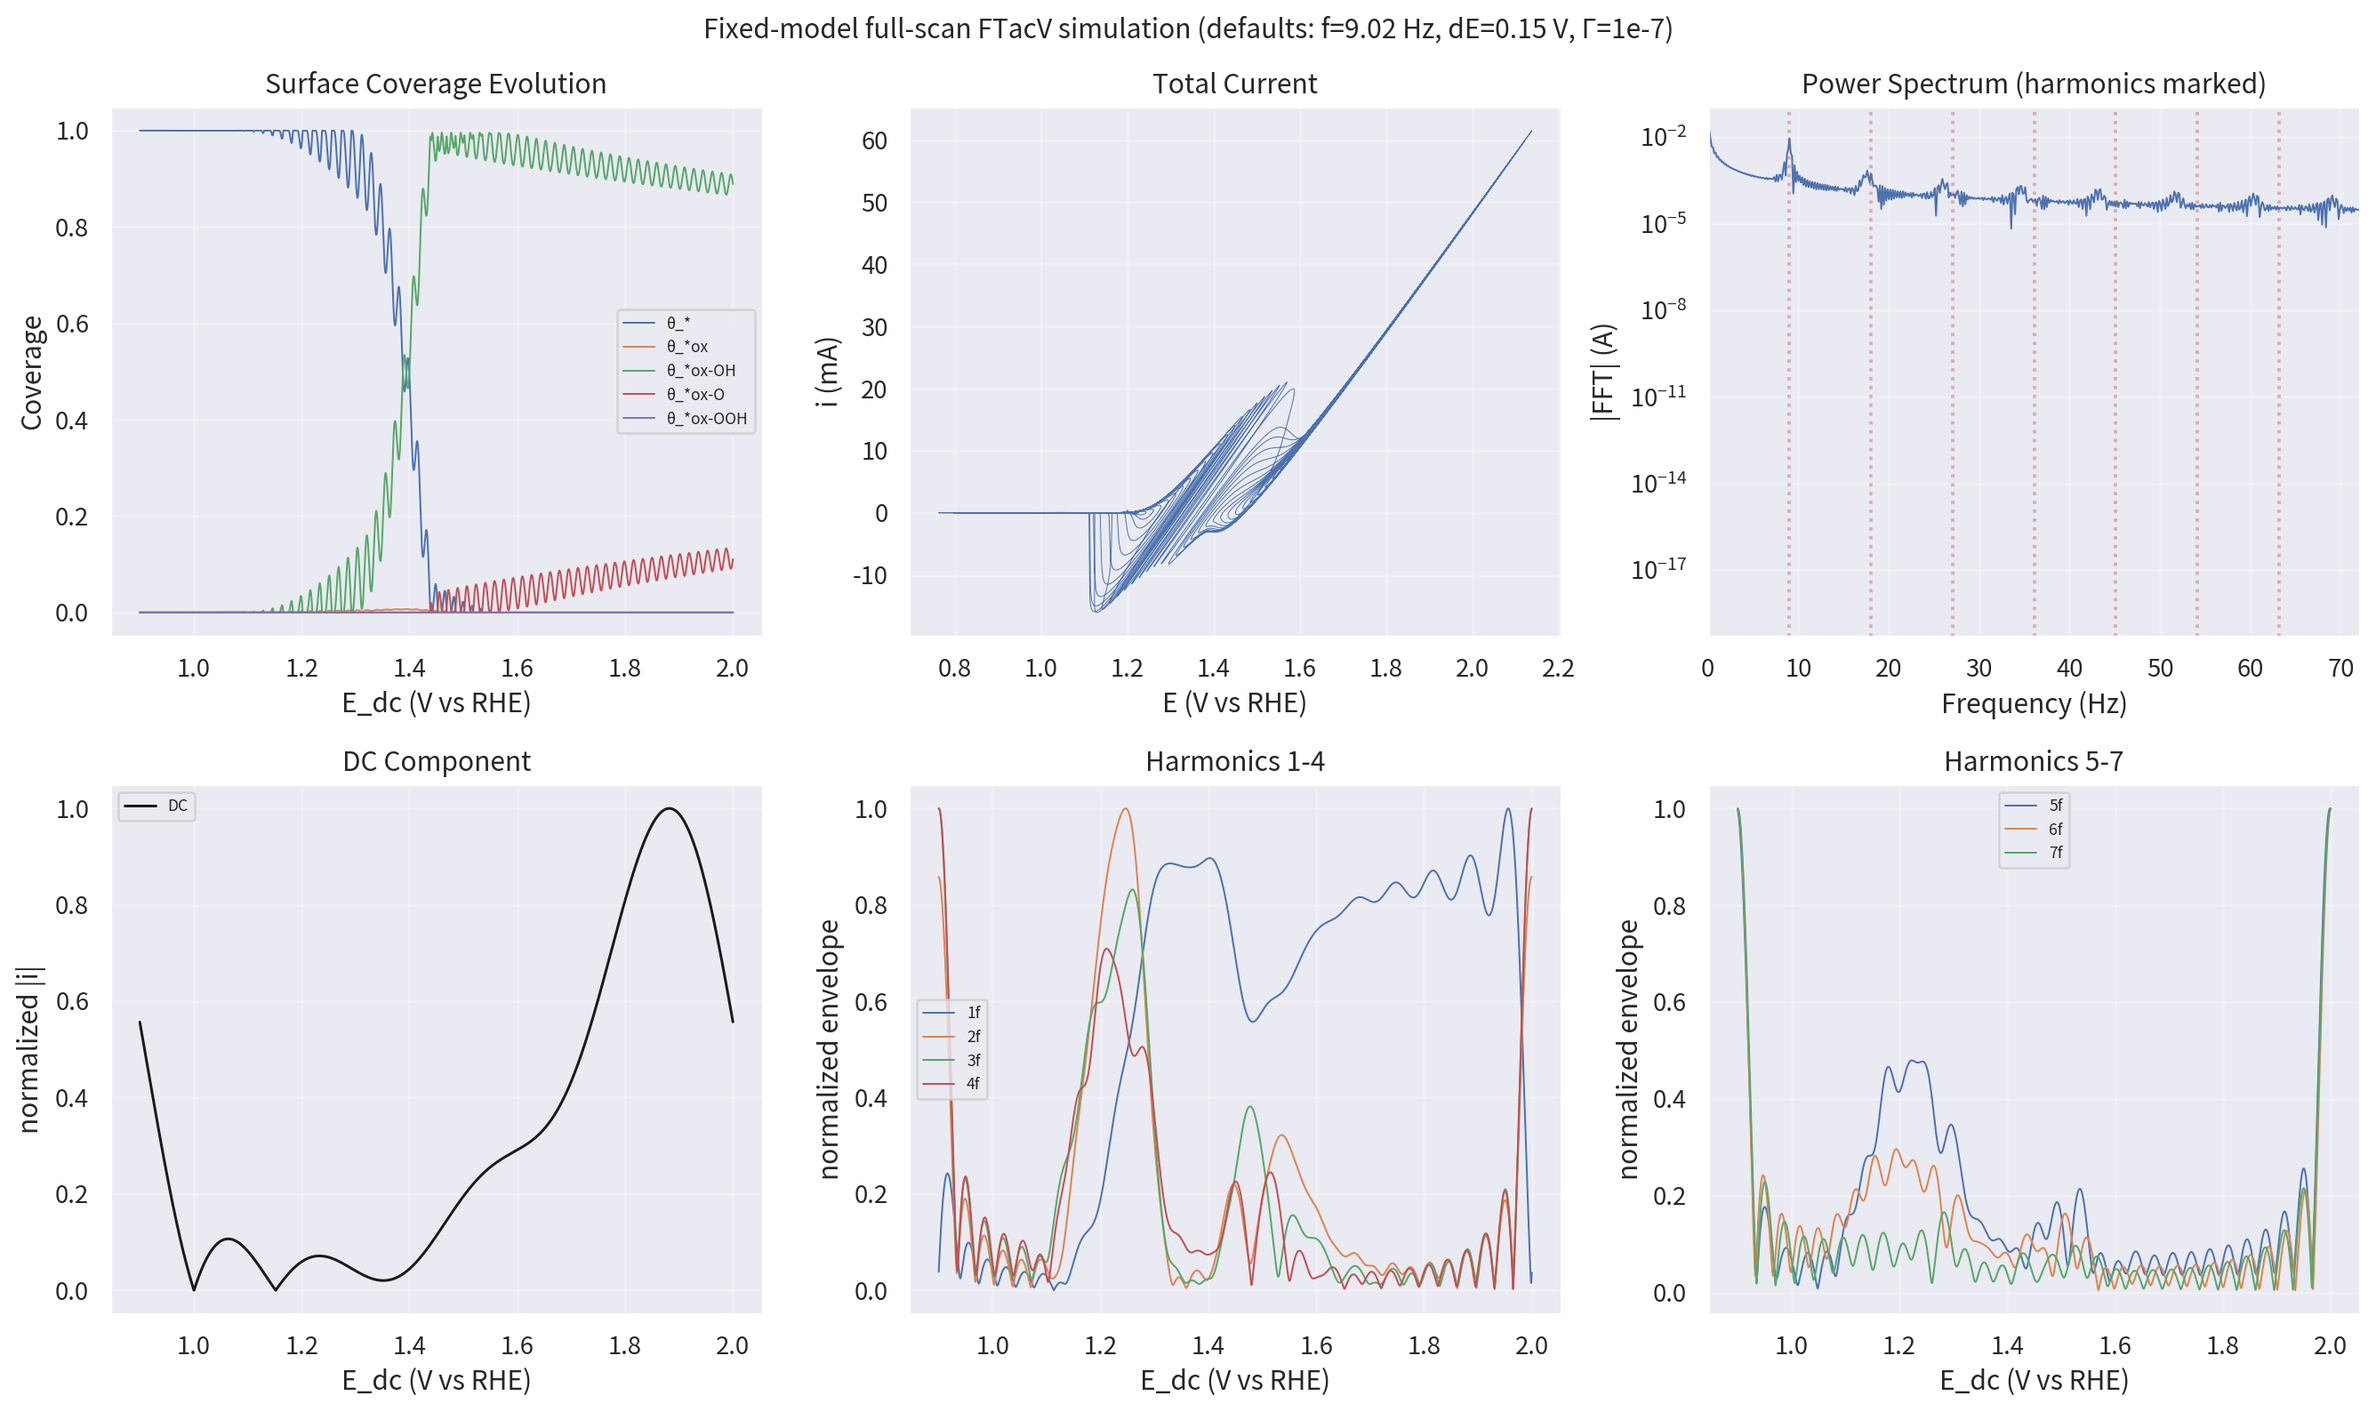
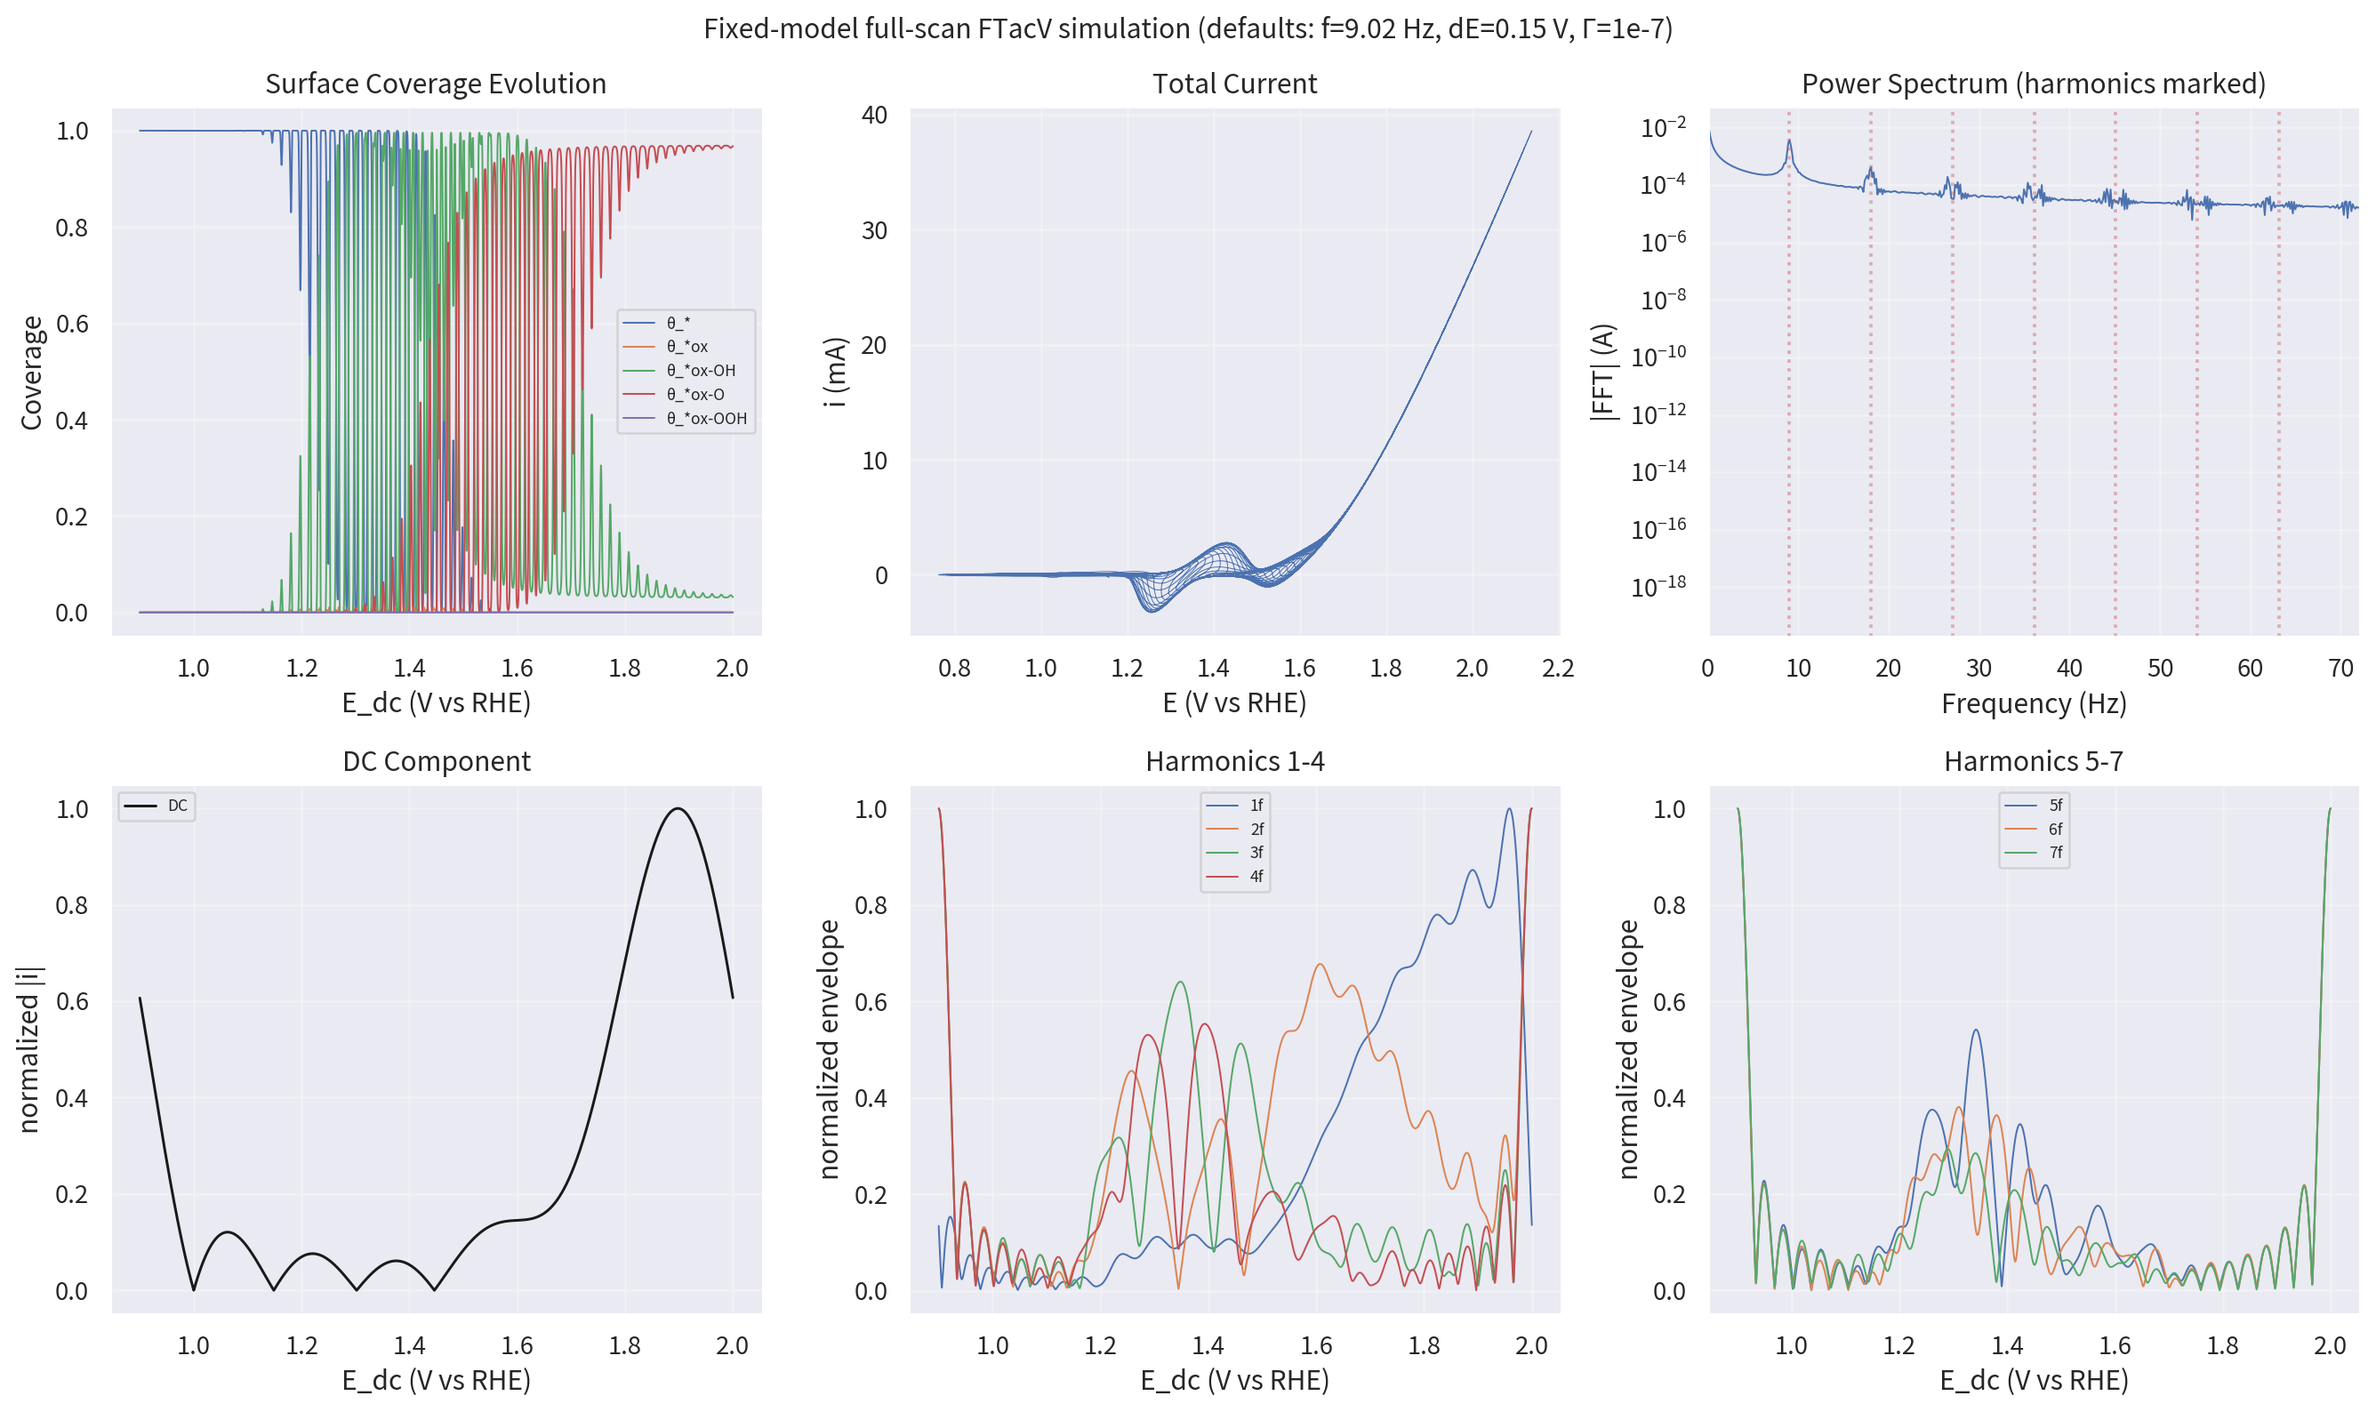
params: 默认参数文献化修正 + 统一 core/web 默认值
- Γ 1e-7→1e-9 mol/cm²（单分子层量级，消除刚性与虚高电流）
- Cdl 1e-6→60 µF/cm²（双电层典型区间）
- k0_1/2/4 1e5→1e3/5e2/1e3, k0_3 500→50 s⁻¹：移入 FTacV
  敏感窗口（~2πf≈57 s⁻¹），高次谐波恢复步骤区分度
- defaults.py 增加各参数文献出处注释（Man 2011 标度、
  碱性 Co3+/4+ 1.43–1.5 V、Bonke k0cat 量级）
- web 后端 SimParams 与 core defaults 统一
- 补充 docs/papers：Man 2011(DTU 开放版)/Bergmann 2015/
  Snitkoff-Sol 2024 正文+SI

diff --git a/web/backend/main.py b/web/backend/main.py
@@ -1,140 +1,159 @@
 """碱性 OER AEM FTacV 参数反演平台 — FastAPI 后端"""
 
-import sys, os
+import sys, os, time
 sys.path.insert(0, os.path.join(os.path.dirname(__file__), '..', '..', 'python'))
 
 import numpy as np
-from fastapi import FastAPI, HTTPException
+from fastapi import FastAPI
 from fastapi.middleware.cors import CORSMiddleware
-from fastapi.responses import JSONResponse
+from fastapi.staticfiles import StaticFiles
 from pydantic import BaseModel
-from typing import Optional, List
+from typing import Optional, List, Dict, Any
 
-from oer_aem import OERPhysics, OERSignal, OERObjective, initialize_oer_parameters
+from oer_aem import OERPhysics, OERSignal, initialize_oer_parameters
 
-app = FastAPI(title="OER-FTAcV API", version="0.1.0")
+app = FastAPI(title="OER-FTAcV API", version="0.2.0")
+app.add_middleware(CORSMiddleware, allow_origins=["*"], allow_methods=["*"], allow_headers=["*"])
 
-app.add_middleware(
-    CORSMiddleware,
-    allow_origins=["*"],
-    allow_methods=["*"],
-    allow_headers=["*"],
-)
+# 托管前端静态文件
+frontend_dir = os.path.join(os.path.dirname(__file__), '..', 'frontend')
+app.mount("/static", StaticFiles(directory=frontend_dir), name="static")
 
 # ===== 数据模型 =====
-
 class SimParams(BaseModel):
-    """仿真参数（前端传入的子集，其余使用默认值）"""
-    G_OH: float = 1.55
-    G_O: float = 3.10
+    # 与 python/oer_aem/defaults.py 保持一致（2026-07-18 统一）
+    G_OH: float = 1.23
+    G_O: float = 2.80
     scaling_OOH_OH: float = 3.2
-    E0_pre: float = 1.50
-    k0_pre: float = 100.0
-    k0_1: float = 1e4
-    k0_2: float = 1e4
-    k0_3: float = 10.0
+    E0_pre: float = 1.45
+    k0_pre: float = 500.0
+    k0_1: float = 1e3
+    k0_2: float = 5e2
+    k0_3: float = 50.0
     k0_4: float = 1e3
     E_start: float = 0.9
-    E_end: float = 1.8
+    E_end: float = 2.0
     f: float = 9.02
-    dE: float = 0.08
-    Ru: float = 75.0
+    dE: float = 0.15
+    Ru: float = 10.0
     Cdl: float = 60e-6
     A: float = 0.196
     gamma: float = 1e-9
-    n_points: int = 2048
+    n_points: int = 16384
     objective_mode: str = "ftacv"
 
-class SimResult(BaseModel):
-    success: bool
-    E_actual: Optional[List[float]] = None
-    i_total: Optional[List[float]] = None
-    coverage_star: Optional[List[float]] = None
-    coverage_ox: Optional[List[float]] = None
-    coverage_OH: Optional[List[float]] = None
-    coverage_O: Optional[List[float]] = None
-    coverage_OOH: Optional[List[float]] = None
-    eta_theoretical: Optional[float] = None
-    E01: Optional[float] = None
-    E02: Optional[float] = None
-    E03: Optional[float] = None
-    E04: Optional[float] = None
-    time_elapsed: Optional[float] = None
-    error: Optional[str] = None
+
+def _to_list(arr):
+    if isinstance(arr, np.ndarray): return arr.tolist()
+    return list(arr) if arr is not None else None
+
+
+def _serialize(val):
+    if isinstance(val, (np.integer,)): return int(val)
+    if isinstance(val, (np.floating,)): return float(val)
+    if isinstance(val, np.ndarray): return val.tolist()
+    if isinstance(val, (list, tuple)): return [_serialize(v) for v in val]
+    return val
 
 
 # ===== API 路由 =====
 
 @app.get("/api/params/defaults")
 async def get_default_params():
-    """返回默认参数（完整字典）。"""
     params = initialize_oer_parameters()
-    # 只返回前端需要的可序列化字段
     keys = ['G_OH', 'G_O', 'scaling_OOH_OH', 'E0_pre',
             'k0_pre', 'k0_1', 'k0_2', 'k0_3', 'k0_4',
             'E01', 'E02', 'E03', 'E04',
             'E_start', 'E_end', 'f', 'dE',
             'Ru', 'Cdl', 'A', 'gamma',
-            'n_points', 'points_per_cycle', 'T',
-            'a', 'objective_mode']
+            'n_points', 'points_per_cycle', 'T', 'a', 'objective_mode',
+            'use_steady_state', 'use_fft']
     return {k: _serialize(params.get(k)) for k in keys}
 
 
-@app.post("/api/simulate", response_model=SimResult)
-async def simulate(p: SimParams):
-    """运行单次 ODE 仿真，返回电流 + 覆盖度 + 平衡电位。"""
-    import time
+@app.post("/api/simulate")
+async def simulate(p: SimParams) -> Dict[str, Any]:
+    """运行 ODE 仿真 + 谐波提取，返回全部可视化数据。"""
     try:
         params = initialize_oer_parameters()
-        # 覆盖前端传入的参数
         for field, value in p.model_dump().items():
-            if field in ('objective_mode',):
+            if field == 'objective_mode':
                 params[field] = str(value)
             else:
                 params[field] = value
 
-        params['n_points'] = min(params['n_points'], 8192)
-        params['points_per_cycle'] = 32
+        params['n_points'] = min(params['n_points'], 16384)
         params['total_time'] = (params['n_points'] / params['points_per_cycle']) / params['f']
         params['t_span'] = np.linspace(0, params['total_time'], params['n_points'])
 
         t0 = time.perf_counter()
-        t, y, E_actual, i_total = OERPhysics.solve_ode_system(params)
+        t, y, E_actual_raw, i_total_raw = OERPhysics.solve_ode_system(params)
         elapsed = time.perf_counter() - t0
 
-        return SimResult(
-            success=True,
-            E_actual=E_actual.tolist(),
-            i_total=i_total.tolist(),
-            coverage_star=y[:, 0].tolist(),
-            coverage_ox=y[:, 1].tolist(),
-            coverage_OH=y[:, 2].tolist(),
-            coverage_O=y[:, 3].tolist(),
-            coverage_OOH=y[:, 4].tolist(),
-            eta_theoretical=max(params['E01'], params['E02'], params['E03'], params['E04']) - 1.23,
-            E01=params['E01'], E02=params['E02'], E03=params['E03'], E04=params['E04'],
-            time_elapsed=elapsed,
-        )
-    except Exception as e:
-        return SimResult(success=False, error=str(e))
+        # ---- 谐波提取 ----
+        df = OERSignal.safe_df(t)
+        i_total = np.asarray(i_total_raw).reshape(-1)
+        tdc = params['E_start'] + t * params['v']
 
+        # DC 分量（低通滤波 → 包络）
+        if params.get('lp_filter_sos') is not None:
+            from scipy.signal import filtfilt
+            I_dc = np.abs(filtfilt(params['lp_filter_sos'], i_total))
+        else:
+            I_dc = np.abs(i_total)
+
+        # 1-7 次谐波
+        I_harm = OERSignal.extract_harmonics(i_total, df, params)
+
+        # 功率谱
+        L = len(i_total)
+        Y = np.fft.fft(i_total)
+        P2 = np.abs(Y / L)
+        P1 = P2[:L // 2 + 1]
+        P1[1:-1] = 2 * P1[1:-1]
+        f_axis = df * np.arange(L // 2 + 1) / L
+
+        # 截取到 15*f 以内
+        f_max = 15 * params['f']
+        idx = f_axis <= f_max
+
+        return {
+            'success': True,
+            # 总电流曲线
+            'E_actual': _to_list(E_actual_raw),
+            'i_total': _to_list(i_total),
+            'tdc': _to_list(tdc),
+            # 覆盖度
+            'coverage_star': _to_list(y[:, 0]),
+            'coverage_ox':   _to_list(y[:, 1]),
+            'coverage_OH':   _to_list(y[:, 2]),
+            'coverage_O':    _to_list(y[:, 3]),
+            'coverage_OOH':  _to_list(y[:, 4]),
+            # 功率谱
+            'ps_freq': _to_list(f_axis[idx]),
+            'ps_mag':  _to_list(P1[idx]),
+            # DC + 谐波（归一化到各自最大值）
+            'dc':   _to_list(I_dc / max(np.max(I_dc), 1e-30)),
+            'harmonics': [_to_list(I_harm[:, k] / max(np.max(np.abs(I_harm[:, k])), 1e-30)) for k in range(7)],
+            # 参数摘要
+            'E01': params['E01'], 'E02': params['E02'],
+            'E03': params['E03'], 'E04': params['E04'],
+            'eta_theoretical': max(params['E01'], params['E02'], params['E03'], params['E04']) - 1.23,
+            'time_elapsed': elapsed,
+        }
+    except Exception as e:
+        return {'success': False, 'error': str(e)}
+
+
+from fastapi.responses import FileResponse
+
+@app.get("/")
+async def root():
+    return FileResponse(os.path.join(frontend_dir, "index.html"))
 
 @app.get("/api/health")
 async def health():
     return {"status": "ok"}
-
-
-def _serialize(val):
-    """将 numpy 类型转为 Python 原生类型。"""
-    if isinstance(val, (np.integer,)):
-        return int(val)
-    if isinstance(val, (np.floating,)):
-        return float(val)
-    if isinstance(val, np.ndarray):
-        return val.tolist()
-    if isinstance(val, (list, tuple)):
-        return [_serialize(v) for v in val]
-    return val
 
 
 if __name__ == '__main__':

diff --git a/python/oer_aem/defaults.py b/python/oer_aem/defaults.py
@@ -23,35 +23,42 @@ def initialize_oer_parameters() -> dict:
     params['result_root'] = ""
 
     # ==================== AEM 热力学参数（物理描述符） ====================
-    params['G_OH'] = 1.55             # *OH 吸附自由能 (eV)
-    params['G_O'] = 3.10              # *O 吸附自由能 (eV)
-    params['scaling_OOH_OH'] = 3.2    # *OOH/*OH 标度偏移（可调）
+    # 依据：Man et al. 2011 ChemCatChem 3, 1159（标度关系 + Co3O4 火山图位置）
+    # ΔG_O−ΔG_OH = 1.57 eV ≈ Co3O4 在该文中的描述符值（最优 1.6），η_理论 ≈ 0.40 V
+    # G_OH 绝对值泛函敏感（DFT+U 会移动吸附腿），作为拟合描述符使用
+    params['G_OH'] = 1.23             # *OH 吸附自由能 (eV, 调低以降低过电位)
+    params['G_O'] = 2.80              # *O 吸附自由能 (eV)
+    params['scaling_OOH_OH'] = 3.2    # *OOH/*OH 标度偏移 (Man 2011: 3.20±0.2 eV)
 
     # ==================== 预氧化参数 ====================
-    params['E0_pre'] = 1.50           # Co³⁺/⁴⁺ 氧化电位 (V vs RHE)
-    params['k0_pre'] = 100.0          # 预氧化速率 (s⁻¹)
+    # 依据：1 M KOH 中 Co3+/4+ 氧化峰 1.43–1.5 V vs RHE（碱性 CoOx 文献一致区间）
+    # 注意：Bonke 2016 的 E0cat=1.9–2.1 V 是 pH 9.2 硼酸体系，不可移植
+    params['E0_pre'] = 1.45           # Co³⁺/⁴⁺ 氧化电位 (V vs RHE)
+    params['k0_pre'] = 500.0          # 预氧化速率 (s⁻¹, Bonke k0cat=90–325 同量级，待标定)
 
     # ==================== AEM 动力学参数 ====================
-    params['k0_1'] = 1e4    # *ox → *ox-OH
-    params['k0_2'] = 1e4    # *ox-OH → *ox-O
-    params['k0_3'] = 10.0   # *ox-O → *ox-OOH (O–O 键形成，较慢)
+    # BV 标准速率常数无文献表值，属反演目标量
+    # 默认值置于 FTacV 敏感窗口（k0 ~ 2πf ≈ 57 s⁻¹）附近，保证谐波对各步有区分度
+    params['k0_1'] = 1e3    # *ox → *ox-OH
+    params['k0_2'] = 5e2    # *ox-OH → *ox-O
+    params['k0_3'] = 50.0   # *ox-O → *ox-OOH (PDS, 最慢)
     params['k0_4'] = 1e3    # *ox-OOH → *ox + O₂
 
     # ==================== 电极与电解液参数 ====================
     params['electrode_type'] = 'Planar'
-    params['A'] = 0.196              # 电极面积 (cm²)
-    params['Ru'] = 75.0              # 未补偿电阻 (Ω)
-    params['Cdl'] = 60e-6            # 双电层电容 (F/cm²)
-    params['gamma'] = 1e-9           # 活性位点总浓度 (mol/cm²)
+    params['A'] = 0.196              # 电极面积 (cm², 5 mm 圆盘；微纳电极需改)
+    params['Ru'] = 10.0              # 未补偿电阻 (Ω, 需 EIS 实测)
+    params['Cdl'] = 60e-6            # 双电层电容 (F/cm², 典型 20–60 µF/cm²)
+    params['gamma'] = 1e-9           # 活性位点总浓度 (mol/cm², 单分子层量级, 需预氧化峰电量标定)
 
     # ==================== FTacV 扫描参数 ====================
     params['Eref'] = 0.0             # 参比偏置 (V)
     params['E_start'] = 0.9          # 起始电位 (V vs RHE)
-    params['E_end'] = 1.8            # 终止电位 (V vs RHE)
-    params['n_points'] = 8192        # 总采样点数
-    params['points_per_cycle'] = 64  # 每周期点数
+    params['E_end'] = 2.0            # 终止电位 (V vs RHE, 覆盖 OER 全范围)
+    params['n_points'] = 16384       # 总采样点数（确保谐波分辨率）
+    params['points_per_cycle'] = 256  # 每周期点数（7th 谐波 ≈37 pts/cycle）
     params['f'] = 9.02               # 正弦频率 (Hz)
-    params['dE'] = 0.08              # 交流振幅 (V)
+    params['dE'] = 0.15              # 交流振幅 (V, 增大以激发高次谐波非线性)
 
     # ==================== 物理常数 ====================
     params['F'] = 96485.0            # 法拉第常数 (C/mol)
@@ -67,7 +74,7 @@ def initialize_oer_parameters() -> dict:
     params['objective_mode'] = 'ftacv'
 
     # ==================== 谐波与滤波 ====================
-    params['band'] = np.ones(8) * 0.01
+    params['band'] = np.ones(8) * 1.0
     params['harmonic_weights'] = np.ones(8)
 
     # ==================== 优化设置 ====================

diff --git a/python/examples/diagnose_fixed_simulation.py b/python/examples/diagnose_fixed_simulation.py
@@ -72,7 +72,7 @@ for k in range(4, 7):
 ax6.set_xlabel('E_dc (V vs RHE)'); ax6.set_ylabel('normalized envelope')
 ax6.set_title('Harmonics 5-7'); ax6.legend(fontsize=7); ax6.grid(alpha=0.3)
 
-fig.suptitle('Fixed-model full-scan FTacV simulation (defaults: f=9.02 Hz, dE=0.15 V, Γ=1e-7)', fontsize=12)
+fig.suptitle('Fixed-model FTacV simulation (defaults: f=9.02 Hz, dE=0.15 V, Γ=1e-9, k0 in sensitive window)', fontsize=12)
 fig.tight_layout()
 out = os.path.join(os.path.dirname(__file__), 'fixed_simulation_diagnostics.png')
 fig.savefig(out, dpi=180, bbox_inches='tight')
